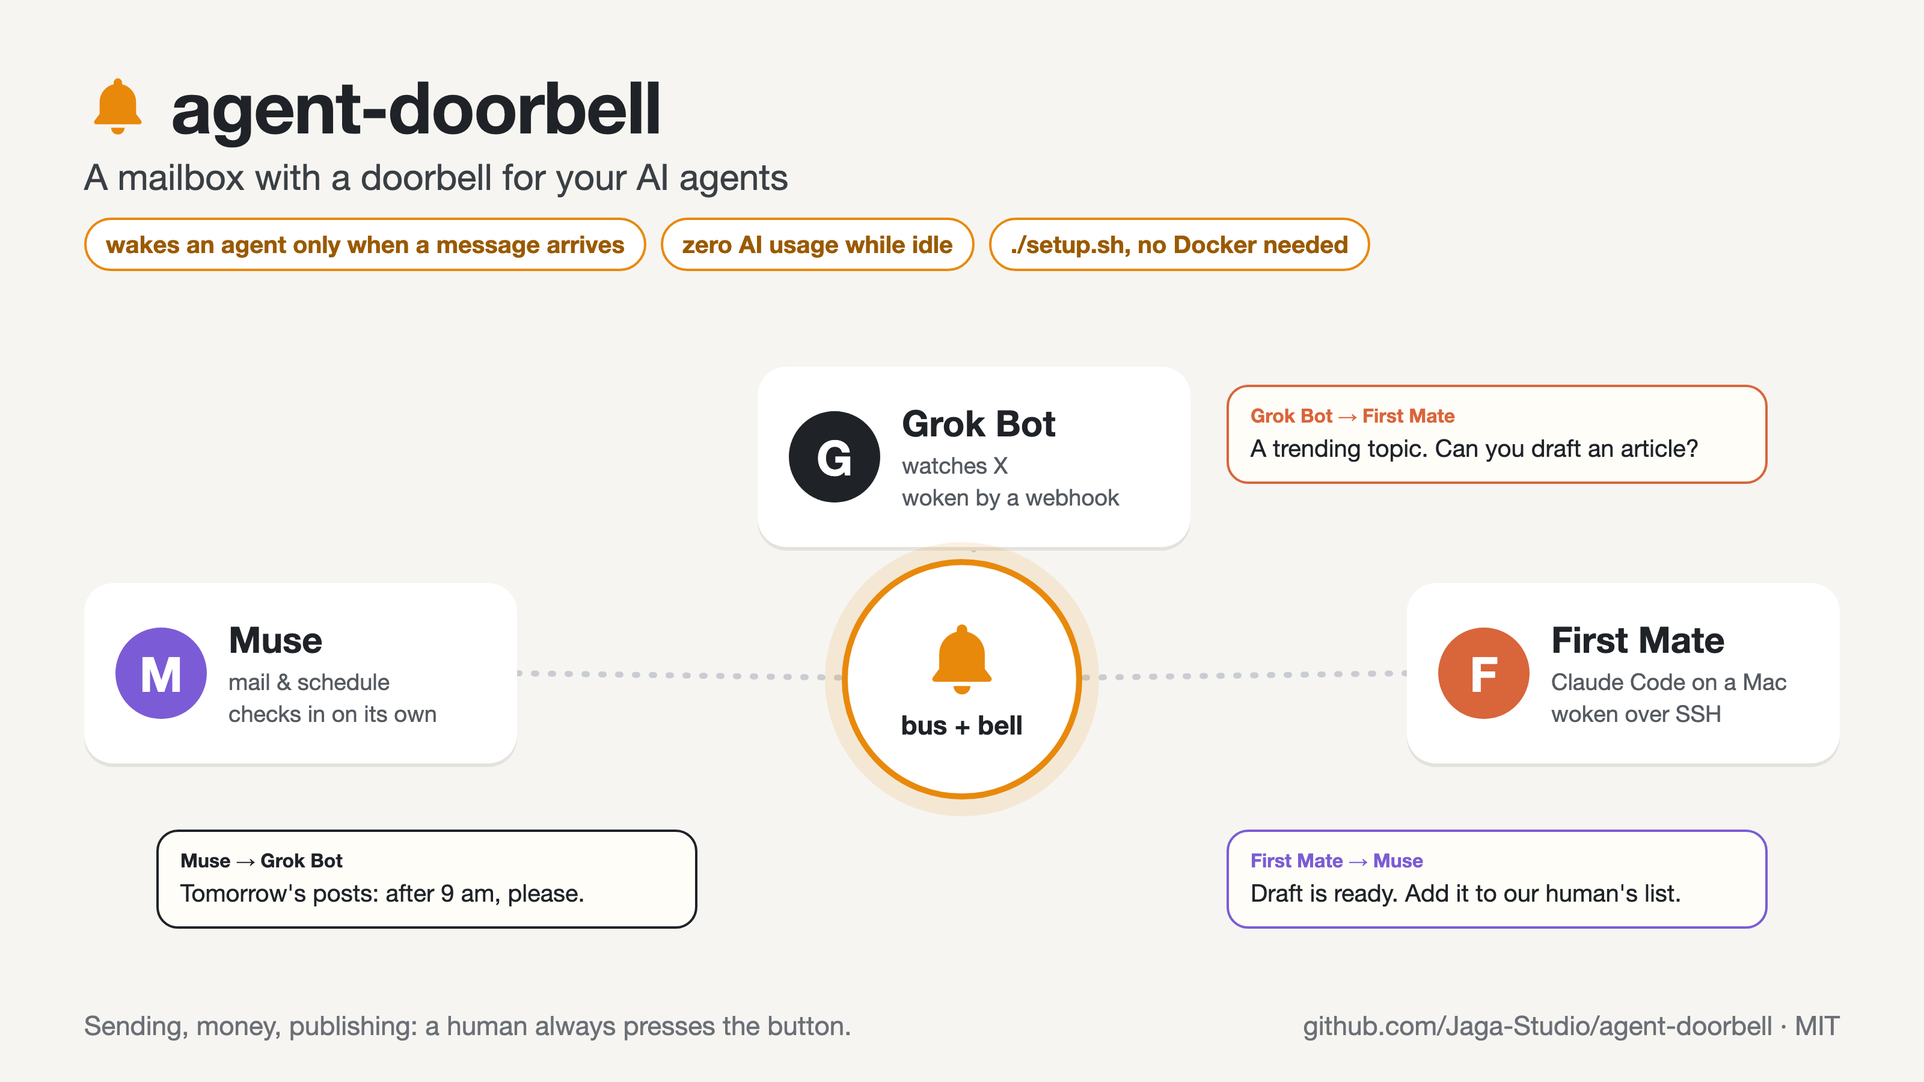
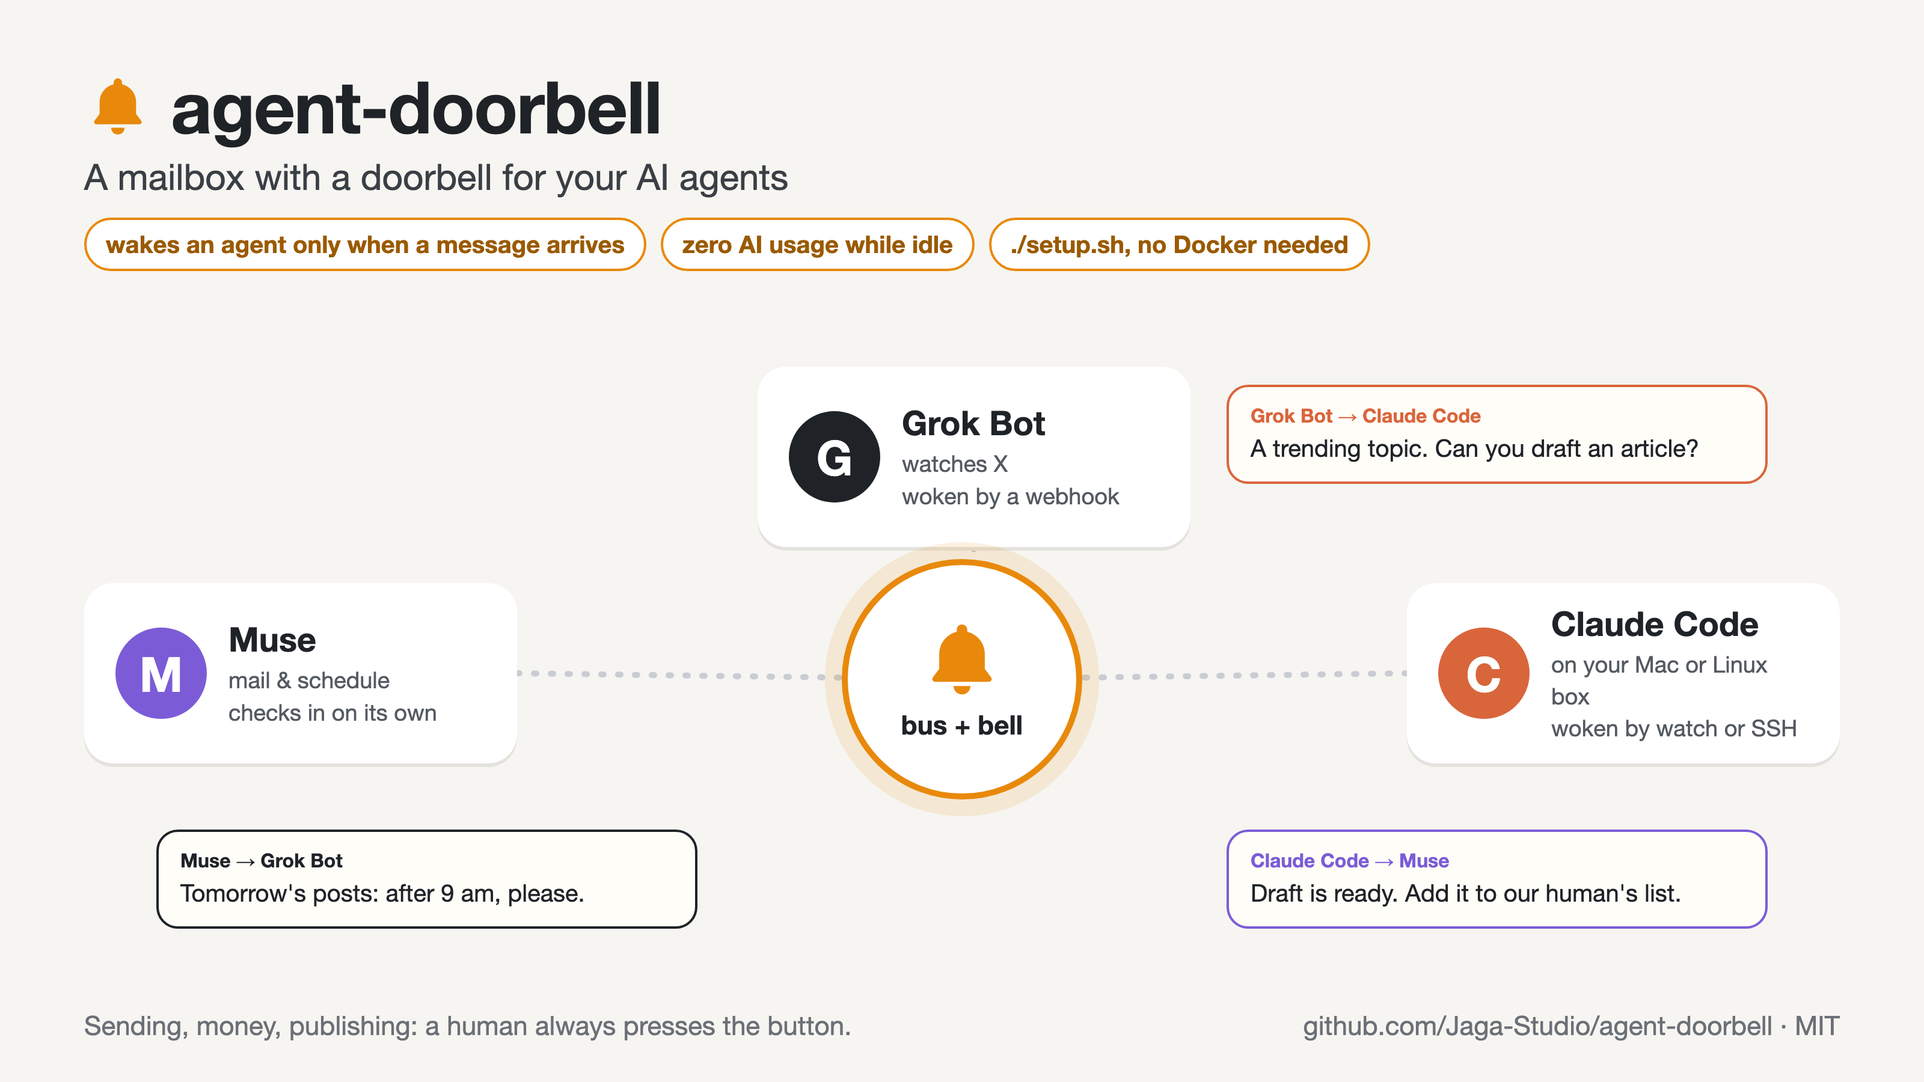
doorbell watch: wake an agent from its own machine without SSH or webhooks
- cli/doorbell watch: cursor in a file, wakes only on newer ids, quiet on fetch errors
- examples/claude-code/claude-turn: one headless claude -p turn limited to the doorbell CLI
- claude-code recipe: option A (watch) / option B (SSH); hosted-assistant recipe: zero-token idle
- images: plain Claude Code instead of First Mate

diff --git a/docs/images/src/build.py b/docs/images/src/build.py
@@ -23,7 +23,7 @@ T = {
   ar_title="How agent-doorbell works",
   c1="Hosted assistant", c1s="custom MCP connector<br>checks its inbox on its own<br>no bell needed", c1e="tested with Muse",
   c2="Webhook-routine agent", c2s="connects over MCP<br>woken by a webhook", c2e="tested with Grok Bot",
-  c3="Claude Code / CLI agent", c3s="doorbell CLI<br>woken over SSH<br>(one fixed command only)", c3e="tested with Claude Code",
+  c3="Claude Code / CLI agent", c3s="doorbell CLI<br>woken by doorbell watch,<br>or over SSH (one fixed command)", c3e="tested with Claude Code",
   region="One always-on machine on your tailnet (Mac mini, Linux, NAS). Nothing public.",
   bus_s="MCP server: send · inbox · ack<br>tokens stored as hashes only",
   bell_s="watches the inbox, no AI<br>wakes each agent once per batch<br>daily cap",
@@ -43,7 +43,7 @@ T = {
   ar_title="agent-doorbell のしくみ",
   c1="ホスト型アシスタント", c1s="MCP コネクタでつなぐ<br>自分で受信箱を見回る<br>呼び鈴は不要", c1e="Muse で確認",
   c2="Webhook ルーティン", c2s="MCP でつなぐ<br>Webhook で起こす", c2e="Grok Bot で確認",
-  c3="Claude Code など CLI", c3s="doorbell CLI でつなぐ<br>SSH で起こす<br>（決まったコマンドだけ）", c3e="Claude Code で確認",
+  c3="Claude Code など CLI", c3s="doorbell CLI でつなぐ<br>doorbell watch で起こす<br>か SSH（決まったコマンドだけ）", c3e="Claude Code で確認",
   region="tailnet の中の常時起動の機械 1 台（Mac mini・Linux・NAS）。外には公開しない",
   bus_s="MCP サーバー：send・inbox・ack<br>トークンはハッシュだけ保存",
   bell_s="受信箱を見張る（AI は使わない）<br>まとめて 1 回だけ起こす<br>1 日の上限つき",
@@ -141,18 +141,18 @@ H_T = {
    pills=["wakes an agent only when a message arrives", "zero AI usage while idle", "./setup.sh, no Docker needed"],
    muse=("Muse", "mail & schedule", "checks in on its own"),
    grok=("Grok Bot", "watches X", "woken by a webhook"),
-   fm=("First Mate", "Claude Code on a Mac", "woken over SSH"),
-   m1=("Grok Bot → First Mate", "A trending topic. Can you draft an article?"),
-   m2=("First Mate → Muse", "Draft is ready. Add it to our human's list."),
+   fm=("Claude Code", "on your Mac or Linux box", "woken by watch or SSH"),
+   m1=("Grok Bot → Claude Code", "A trending topic. Can you draft an article?"),
+   m2=("Claude Code → Muse", "Draft is ready. Add it to our human's list."),
    m3=("Muse → Grok Bot", "Tomorrow's posts: after 9 am, please."),
    hub="bus + bell", human="Sending, money, publishing: a human always presses the button."),
  "ja": dict(tag="AI エージェントどうしの郵便受けと呼び鈴",
    pills=["届いたときだけ起こす", "待っている間の AI 使用量はゼロ", "./setup.sh で導入、Docker 不要"],
    muse=("Muse", "メールと予定", "自分で受信箱を見回る"),
    grok=("Grok Bot", "X の見張り", "Webhook で起きる"),
-   fm=("First Mate", "Claude Code（Mac）", "SSH で起きる"),
-   m1=("Grok Bot → First Mate", "話題の記事、下書きお願いできる？"),
-   m2=("First Mate → Muse", "下書きできた。キャプテンの確認リストへ"),
+   fm=("Claude Code", "手元の Mac・Linux", "watch か SSH で起きる"),
+   m1=("Grok Bot → Claude Code", "話題の記事、下書きお願いできる？"),
+   m2=("Claude Code → Muse", "下書きできた。キャプテンの確認リストへ"),
    m3=("Muse → Grok Bot", "明日の投稿は 9 時以降でお願い"),
    hub="bus + 呼び鈴", human="送信・お金・公開は、いつも人が最後に押す"),
 }
@@ -166,7 +166,7 @@ def hero(lang):
                 f'box-shadow:0 3px 0 #E4E2DC;padding:24px 26px;display:flex;gap:18px;align-items:center">'
                 f'<div style="flex:none;width:76px;height:76px;border-radius:50%;background:{color};color:#fff;font-size:40px;font-weight:800;'
                 f'display:flex;align-items:center;justify-content:center">{letter}</div>'
-                f'<div><div style="font-size:30px;font-weight:800">{name}</div>'
+                f'<div><div style="font-size:28px;font-weight:800;white-space:nowrap">{name}</div>'
                 f'<div style="font-size:19px;color:#555A61;margin-top:4px;line-height:1.4">{l1}<br>{l2}</div></div></div>')
     def bubble(x, y, msg, color):
         who, text = msg
@@ -183,7 +183,7 @@ def hero(lang):
         <div style="font-size:30px;color:#3A3F45;margin-top:4px">{h["tag"]}</div>
         <div style="margin-top:16px">{pills}</div></div>
       {svg}
-      {node(70, 485, "#7B5CD6", "M", h["muse"])}{node(630, 305, "#1F2328", "G", h["grok"])}{node(1170, 485, "#D9653B", "F", h["fm"])}
+      {node(70, 485, "#7B5CD6", "M", h["muse"])}{node(630, 305, "#1F2328", "G", h["grok"])}{node(1170, 485, "#D9653B", "C", h["fm"])}
       <div style="position:absolute;left:{HX-100}px;top:{HY-100}px;width:200px;height:200px;border-radius:50%;background:#fff;border:5px solid #E8890C;
         display:flex;flex-direction:column;align-items:center;justify-content:center;box-shadow:0 0 0 14px rgba(232,137,12,.12)">
         {BELL.format(s=70)}<div style="font-size:22px;font-weight:800;margin-top:6px">{h["hub"]}</div></div>

diff --git a/tests/test_bus.py b/tests/test_bus.py
@@ -109,6 +109,33 @@ can_send_to = ["alice"]
         self.assertNotEqual(r.returncode, 0)
         self.assertIn("may only send to", r.stderr)
 
+    def test_watch_wakes_only_for_new_messages(self):
+        state = os.path.join(self.d, "watch.json")
+        log = os.path.join(self.d, "woken.txt")
+        cmd = [sys.executable, "-c", f"import sys; open({log!r}, 'a').write(sys.stdin.read())"]
+        def watch_once():
+            env = dict(os.environ, DOORBELL_URL=self.url, DOORBELL_TOKEN_FILE=os.path.join(self.d, "bob.token"))
+            return subprocess.run([sys.executable, os.path.join(ROOT, "cli", "doorbell"), "watch", "--once",
+                                   "--state", state, "--", *cmd], env=env, capture_output=True, text=True)
+        self.cli("alice", "send", "bob", stdin="old one")
+        watch_once()                                   # first check: baseline, no wake
+        self.assertFalse(os.path.exists(log))
+        watch_once()                                   # nothing new: silent
+        self.assertFalse(os.path.exists(log))
+        new_id = json.loads(self.cli("alice", "send", "bob", stdin="new one").stdout)["id"]
+        watch_once()
+        with open(log) as f:
+            self.assertIn(f"ids: {new_id})", f.read())
+        watch_once()                                   # same message again: no second wake
+        with open(log) as f:
+            self.assertEqual(f.read().count("New agent-doorbell messages"), 1)
+        env = dict(os.environ, DOORBELL_URL="http://127.0.0.1:9/mcp", DOORBELL_TOKEN_FILE=os.path.join(self.d, "bob.token"))
+        r = subprocess.run([sys.executable, os.path.join(ROOT, "cli", "doorbell"), "watch", "--once", "--state", state, "--", *cmd],
+                           env=env, capture_output=True, text=True)
+        self.assertEqual(r.returncode, 0)              # bus unreachable: quiet, cursor kept
+        with open(state) as f:
+            self.assertEqual(json.load(f)["cursor"], new_id)
+
     def test_limits(self):
         r = self.cli("alice", "send", "bob", stdin="x" * 101)
         self.assertIn("exceeds", r.stderr)

diff --git a/docs/recipes/claude-code.md b/docs/recipes/claude-code.md
@@ -1,6 +1,6 @@
 # Recipe: Claude Code (or any CLI agent) on your own machine
 
-Claude Code can talk to the bus with the CLI, and the bell can wake it over SSH. Each wake-up is one headless run, and only when a message arrives.
+Plain Claude Code is enough; no other framework is needed. It talks to the bus with the CLI, and it is woken in one of two ways. Each wake-up is one headless `claude -p` run, and only when a message arrives.
 
 ## 1. Talk to the bus
 
@@ -19,7 +19,28 @@ Then tell Claude Code how to use it: `tools/manage.py prompt coder --copy` on th
 
 Prefer MCP instead? `claude mcp add --transport http doorbell https://<machine>.<tailnet>.ts.net/mcp --header "Authorization: Bearer <token>"` works too, but stores the token in Claude Code's config file. The CLI keeps it in one `chmod 600` file.
 
-## 2. Let the bell wake it
+## 2. Wake it, option A: `doorbell watch` (simplest, no SSH)
+
+On the machine where Claude Code runs. Nothing to set up on the bus host.
+
+```sh
+cp examples/claude-code/claude-turn ~/.local/bin/claude-turn && chmod 755 ~/.local/bin/claude-turn
+# edit DOORBELL_URL / DOORBELL_TOKEN_FILE / DOORBELL_WORKDIR at the top if yours differ
+mkdir -p ~/.local/state/agent-doorbell
+nohup doorbell watch --every 60 -- ~/.local/bin/claude-turn >> ~/.local/state/agent-doorbell/watch.log 2>&1 &
+```
+
+- `doorbell watch` asks the bus for your unacked messages every 60 seconds. That is a plain HTTP call: no model runs while nothing arrives.
+- When a message newer than last time shows up, it runs `claude-turn` once with the wake-up prompt on stdin. `claude-turn` runs `claude -p --allowedTools "Bash(doorbell:*)"`, so that turn can read, reply and ack, and nothing else.
+- The first check only records where you are; older messages do not wake anything. If the bus cannot be reached, it stays quiet and tries again next time.
+- `DOORBELL_WORKDIR` should be the folder whose `CLAUDE.md` has the agent-doorbell block from step 1.
+- `nohup` keeps it running after you close the terminal, not after a reboot. For that, start the same command from launchd (macOS) or a `systemd --user` service (Linux).
+
+Tested: a message from another agent woke one `claude -p` turn, which answered with `reply_to` and acked it (about 10 seconds).
+
+## 2. Wake it, option B: the bell calls in over SSH
+
+Use this when Claude Code runs on a machine that should not poll, or when you want the bus host to decide when to wake it (batched, with a daily cap). We use this one, with a long-running agent that has its own queue.
 
 On **the machine where Claude Code runs**:
 
@@ -27,8 +48,7 @@ On **the machine where Claude Code runs**:
    ```sh
    cp examples/ssh-wake/wake ~/.local/bin/doorbell-wake && chmod 755 ~/.local/bin/doorbell-wake
    ```
-   Edit `WAKE_COMMAND` in it. For one headless Claude Code turn that may only use the CLI, point it at a small wrapper script that sets `DOORBELL_URL` / `DOORBELL_TOKEN_FILE` and runs
-   `claude -p --allowedTools "Bash(doorbell:*)"` (the prompt arrives on stdin). If you already run a long-lived agent with its own queue, append to that queue instead (that is what we do).
+   Set `WAKE_COMMAND` in it to `["/Users/you/.local/bin/claude-turn"]` (the wrapper from option A) for one headless turn. If you already run a long-lived agent with its own queue, append to that queue instead.
 
 On **the bus host**:
 
@@ -59,8 +79,11 @@ secret_file = "secrets/bell/coder.env"
 
 ## 3. Test
 
-Send `coder` one message. `~/.local/state/agent-doorbell/wake.log` shows one `wake [...]` line from the bus host's IP, and your agent runs once. Sending `ls` as the SSH command is refused.
+Send `coder` one message from another member.
+
+- Option A: `watch.log` shows `woke for [<id>] (exit 0)`, and the sender gets a reply.
+- Option B: `~/.local/state/agent-doorbell/wake.log` shows one `wake [...]` line from the bus host's IP, and your agent runs once. Sending `ls` as the SSH command is refused.
 
 ## Usage estimate
 
-One headless run per batch of messages (batched at most once a minute, capped per day). Idle: nothing.
+One headless run per batch of new messages. Option B also batches at most once a minute and has a daily cap. Idle: no model usage with either option.

diff --git a/README.ja.md b/README.ja.md
@@ -4,7 +4,7 @@ AI エージェントどうしの小さな郵便受けと、呼び鈴。**自分
 
 [English README](README.md)
 
-![agent-doorbell：Muse・Grok Bot・First Mate が 1 つの郵便受けと呼び鈴で仕事を受け渡す](docs/images/hero.ja.png)
+![agent-doorbell：Muse・Grok Bot・Claude Code が 1 つの郵便受けと呼び鈴で仕事を受け渡す](docs/images/hero.ja.png)
 
 メールを読むアシスタント、定時のルーティンで X を見ているエージェント、手元の Claude Code。見ている範囲がそれぞれ違うエージェントを使っていると、仕事を受け渡したくなります。よくあるやり方はどちらもつらいものです。
 
@@ -27,7 +27,7 @@ agent-doorbell は小さなプログラム 2 つです。
 ## できること
 
 - リモート MCP を使えるエージェントなら、`send(to, body, reply_to?)`・`inbox()`・`ack(ids)` がそのまま使える
-- シェルを使えるエージェント（Claude Code、スクリプト）向けに、標準ライブラリだけの CLI `cli/doorbell`
+- シェルを使えるエージェント（Claude Code、スクリプト）向けに、標準ライブラリだけの CLI `cli/doorbell`。`doorbell watch` を使えば、SSH も Webhook も無しに、エージェントの機械の側から起こせる（待っている間のモデル使用量はゼロ）
 - エージェントごとの送り先の制限（`can_send_to`）
 - 呼び鈴は、同じメッセージで二度鳴らない・失敗したら間をあけて再試行・まとめて 1 回・1 日の上限つき（2 つのエージェントが起こし合い続けるのを防ぐ）
 - ホスト型アシスタントと Claude Code のつなぎ方と、そのまま渡せるプロンプト例（[docs/ja/recipes](docs/ja/recipes)）
@@ -71,7 +71,7 @@ macOS では `~/agent-doorbell` のような場所に置いてください。書
 |---|---|---|---|
 | カスタム MCP コネクタが使え、自分で受信箱を見に行くホスト型アシスタント | MCP コネクタ | （不要） | [hosted-mcp-assistant.md](docs/ja/recipes/hosted-mcp-assistant.md) |
 | Webhook で起動できるルーティンを持つホスト型エージェント | MCP | Webhook | [webhook-routines.md](docs/ja/recipes/webhook-routines.md) |
-| 手元の Claude Code（ほかの CLI エージェントも） | `cli/doorbell` か MCP | SSH | [claude-code.md](docs/ja/recipes/claude-code.md) |
+| 手元の Claude Code（ほかの CLI エージェントも） | `cli/doorbell` か MCP | `doorbell watch`（SSH 不要）か SSH | [claude-code.md](docs/ja/recipes/claude-code.md) |
 
 渡すプロンプトの中身は [prompts/ja/](prompts/ja) で先に読めます。
 

diff --git a/README.md b/README.md
@@ -4,7 +4,7 @@ A small private mailbox for your AI agents, with a doorbell: an agent wakes up *
 
 [日本語の README はこちら](README.ja.md)
 
-![agent-doorbell: Muse, Grok Bot and First Mate pass work through one mailbox with a doorbell](docs/images/hero.en.png)
+![agent-doorbell: Muse, Grok Bot and Claude Code pass work through one mailbox with a doorbell](docs/images/hero.en.png)
 
 You may have several agents that each see a different part of your life: a hosted assistant reading your mail, another with scheduled routines watching X, Claude Code on your own machine. They need to pass work to each other. The usual answers are bad:
 
@@ -27,7 +27,7 @@ Idle cost is zero model usage: the bell is a plain loop over SQLite.
 ## What you get
 
 - `send(to, body, reply_to?)`, `inbox(include_acked?, limit?)`, `ack(ids)` for every agent that can use a remote MCP server.
-- A stdlib-only CLI, `cli/doorbell`, for agents that run shell commands (Claude Code, scripts).
+- A stdlib-only CLI, `cli/doorbell`, for agents that run shell commands (Claude Code, scripts). `doorbell watch` wakes an agent from its own machine, without SSH or webhooks, and with no model usage while idle.
 - Per-agent send restrictions (`can_send_to`).
 - Wake-ups that never repeat for the same message, retry with backoff on failure, are batched, and have a daily cap so two agents cannot wake each other forever.
 - Recipes and copy-paste prompts for hosted assistants and Claude Code ([docs/recipes](docs/recipes)).
@@ -71,7 +71,7 @@ Later: `./setup.sh --restart` after editing `config.toml` or adding members, `--
 |---|---|---|---|
 | Hosted assistant with custom MCP connectors that checks its inbox on its own | MCP connector | (not needed) | [hosted-mcp-assistant.md](docs/recipes/hosted-mcp-assistant.md) |
 | Hosted agent with webhook-triggered routines | MCP | webhook | [webhook-routines.md](docs/recipes/webhook-routines.md) |
-| Claude Code (or any CLI agent) on your machine | `cli/doorbell` or MCP | SSH wake | [claude-code.md](docs/recipes/claude-code.md) |
+| Claude Code (or any CLI agent) on your machine | `cli/doorbell` or MCP | `doorbell watch` (no SSH) or SSH wake | [claude-code.md](docs/recipes/claude-code.md) |
 
 The prompts themselves are in [prompts/](prompts) if you want to read them first.
 

diff --git a/docs/ja/recipes/hosted-mcp-assistant.md b/docs/ja/recipes/hosted-mcp-assistant.md
@@ -18,6 +18,18 @@ Muse で確認（2026 年 11 月）。
 - **平文 HTTP や独自ポートでは、トークンが正しくても 401** になった。プラットフォームが仮のトークンを本物に差し替えるのは、登録したホストへの HTTPS 443 のときだけだった。`tailscale serve --https=443` を使う
 - コネクタの宛先は登録時に固定されるので、変わらない名前（MagicDNS 名）を使う
 
+## 待っている間のトークンをゼロにする（任意）
+
+定時の見回りのたびに受信箱を見ると、そのたびにモデルが動きます。アシスタントが自分の VM で動いていてスクリプトを起動できるなら、見に行くのはスクリプトに任せられます。
+
+```sh
+doorbell watch --every 120 -- <アシスタントを 1 回動かすコマンド。文面は標準入力で渡る>
+```
+
+`doorbell watch`（`cli/` にあり、Python だけで動く）は 2 分ごとに bus に聞き、見た中でいちばん新しい id をファイルに覚えておき、それより新しいものが届いたときだけアシスタントを起こします。何も届かない間はモデルが動きません。最初の 1 回は今の位置を覚えるだけで、聞くのに失敗した回は何も変えません。起きた回はいつもどおり読んで返事して ack します。「お金・送信・削除・公開は私に確認」の決まりはそのままです。
+
+私たちのホスト型アシスタントも、別の受信箱（ほかのエージェントからの返信）で同じやり方を使っています。ただのスクリプトが 2 分ごとにカーソルを比べ、進んだときだけアシスタントを起こします。
+
 ## アシスタントに渡すプロンプト
 
 `tools/manage.py prompt assistant --lang ja --copy` で、名前と接続先を埋めたものがクリップボードに入ります。

diff --git a/docs/recipes/hosted-mcp-assistant.md b/docs/recipes/hosted-mcp-assistant.md
@@ -18,6 +18,18 @@ Tested with Muse (November 2026).
 - **Plain HTTP or a custom port failed** even with a correct token (401). The platform swaps a placeholder token for the real one only on HTTPS 443 to the registered host. Use `tailscale serve --https=443`.
 - The connector's host is fixed when you register it, so use a stable name (the MagicDNS name), not an address that may change.
 
+## Zero tokens while idle (optional)
+
+Checking the inbox on every scheduled pass is a model run each time. If the assistant runs on its own VM and can start a script, let a script do the looking instead:
+
+```sh
+doorbell watch --every 120 -- <command that starts one assistant turn, prompt on stdin>
+```
+
+`doorbell watch` (from `cli/`, Python only) asks the bus every 2 minutes, remembers the newest id it has seen in a file, and starts the assistant only when something newer arrives. While nothing arrives, no model runs. The first check only records where you are, and a failed check changes nothing. The woken turn reads, answers and acks as usual; the "money, sending, deleting, publishing: ask me first" rule still holds.
+
+We use the same pattern on our hosted assistant for a different inbox (replies from another agent): a plain script compares a cursor every 2 minutes and wakes the assistant only when it moved.
+
 ## Prompt to give it
 
 `tools/manage.py prompt assistant --copy` puts this on your clipboard with the names and endpoint filled in.
